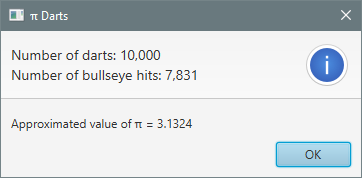
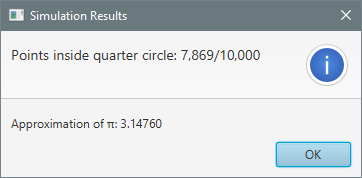
Initial commit for 6.5

diff --git a/docs/chapter6/practice-problems.md b/docs/chapter6/practice-problems.md
@@ -653,119 +653,202 @@ arrays.
 
 ---
 
-**g. Pi Darts.** Draws a visual representation of the dart game simulated in Listing 6.3.3a for 
-approximating π. 
+**g. Graphical π Approximator.** Displays a graphical representation of the Monte Carlo simulation 
+used to approximate π in Section 6.3.3. Random points are generated within a square scene. 
+Different colors are used to distinguish points within the circumscribed quarter circle from 
+those outside it.
 
 ??? "Output 6.5.2g-1"
-![Output 6.5.2g-1 – Pi Darts](images/output6.5.2g-1.png)
+![Output 6.5.2g-1 – Random Points](images/output6.5.2g-1.png)
 
-Draw each random dart as a black dot and display the results in an alert box using the following 
-code:
-
-```java
-Alert alert = new Alert(AlertType.INFORMATION); 
-alert.setTitle(titleString); 
-alert.setHeaderText(headerString); 
-alert.setContentText(contentString); 
-alert.showAndWait(); 
-System.exit(0);
-```
+The fraction of points inside the quarter circle approximates π/4, so multiplying that fraction by
+four approximates π itself. Display this information in an alert dialog:
 
 ??? "Output 6.5.2g-2"
-![Output 6.5.2g-2 – Pi Darts](images/output6.5.2g-2.png)
+![Output 6.5.2g-2 – Alert Dialog](images/output6.5.2g-2.png)
+
+The following helper method can be used to display the results in an alert dialog:
+
+```java
+/**
+ * Creates and returns an alert dialog with the simulation results.
+ */
+private static Alert getAlert(int pointsInQuarterCircle, int totalPoints) {
+    // Consult the API documentation for the Alert class.
+}
+```
+Call the method from `start` as follows:
+
+```java
+// display simulation results
+Alert alert = getAlert(pointsInQuarterCircle, totalPoints);
+alert.showAndWait();
+```
 
 ---
 
-**h. Down the Drain.** Uses PathTransition to move a dot along the path defined by a spiral. 
+**h. Down the Drain.** Animates a dot moving along a spiral path.
 
 ??? "Output 6.5.2h"
 ![Output 6.5.2h – Down the Drain](images/output6.5.2h.png)
 
-The spiral is an instance of `Polyline`. The endpoints of the small line segments that form the 
-polyline are obtained by selecting points on imaginary circles of gradually increasing radii. The 
-details involve concepts from elementary trigonometry, but you can use the following code to 
-build the polyline without having to understand the mathematics.
+Use `PathTransition` for the animation. Represent the spiral as a `Polyline` whose vertices lie on
+imaginary circles of gradually increasing radius. Constructing the polyline involves elementary
+trigonometry, but the following code can be used without understanding the mathematics:
 
 ```java
-// x and y denote the location of the center of the spiral 
-// n is the number of times the spiral wraps around the center 
-// rStep is the change in radius from one endpoint to the next 
-// aStep is the change in angle from endpoint to the next.
-Polyline polyline = new Polyline(); 
-double radius = 0; 
-for (double a = 0; a < 2 * n * Math.PI; a += Math.toRadians(aStep)) {
-    double u = x + radius * Math.cos(a); 
-    double v = y + radius * Math.sin(a); 
-    polyline.getPoints().
-    addAll(u, v); radius += rStep;
+ /**
+ * Creates and returns a polyline representing a spiral.
+ *
+ * @param x x-coordinate of center
+ * @param y y-coordinate of center
+ * @param n number of revolutions
+ * @param rStep increase in radius between successive vertices
+ * @param aStep increase in angle (in degrees) between successive vertices 
+ */
+private static Polyline getSpiral(int x, int y, int n, double rStep, double aStep) {
+    Polyline spiral = new Polyline();
+    double radius = 0;
+    for (double angle = 0; angle < 2 * n * Math.PI; angle += Math.toRadians(aStep)) {
+        double u = x + radius * Math.cos(angle);
+        double v = y + radius * Math.sin(angle);
+        spiral.getPoints().addAll(u, v);
+        radius += rStep;
+    }
+    return spiral;
 }
+
 ```
 
 ## 6.5.3 Monte Carlo Simulations
 
-**a. Roulette.** A roulette wheel has 38 equally sized slots. The wheel is spun and a little ball 
-is set spinning with it, eventually landing in one of the slots. Two of the slots are green, 18 are 
-red, and 18 are black. A common bet is to place $1 on red. In this case, if the ball lands on red 
-then the player gets his dollar back plus another dollar; otherwise, the player gets nothing. Write 
-a Monte Carlo simulation that calculates the expected loss from this wager. Display the result in 
-$X.YZ format.
+
+**a. Roulette.** An American roulette wheel has 38 equally sized slots. Two are green, 18 are red,
+and 18 are black. A common wager is to bet $1 on red. If the ball lands on a red slot, the player
+receives the original dollar back plus another dollar. Otherwise, the player loses the dollar.
+
+Write a Monte Carlo simulation that estimates the expected payout. 
+
+??? "Partial output 6.5.3a"
+    ```text
+    Spin the roulette wheel and bet a dollar on RED.
+    Simulating 100,000,000 trials...
+    Expected payout:
+    ```
+
+The correct result is slightly negative, indicating a small expected loss.
 
 ---
 
-**b. Three of a Kind.** Write a Monte Carlo simulation to estimate the probability of rolling four 
-dice with a result of at least three dice showing the same number. Display the result as a 
-percentage with two digits after the decimal point.
+**b. Three of a Kind.** Estimates the probability of rolling three of a kind with four dice. A 
+positive outcome includes the case when all four dice are the same.
+
+??? "Partial output 6.5.3b"
+    ```text
+    Rolling four dice 10,000,000 times...
+    Probability of rolling three of a kind:
+    ```
+
+The probability is between 9 and 10 percent.
 
 ---
 
-**c. Thor vs. Zeus.** Thor has nine four-sided dice with faces numbered from 1 to 4. Zeus has six 
-six-sided dice with faces numbered from 1 to 6. They roll their dice and add up the numbers 
-obtained. The highest total wins. The game is a draw if the totals are equal. Write a Monte Carlo
-simulation to calculate the probability of victory for Thor. Display the result as a percentage with 
-two digits after the decimal point.
+**c. Thor vs. Zeus.** Thor has nine 4-sided dice with faces numbered from 1 to 4. Zeus has six 
+6-sided dice with faces numbered from 1 to 6. They roll their dice and add up the numbers obtained. 
+The highest total wins. The game is a draw if the totals are equal.
+
+Write a Monte Carlo simulation that estimates the probability of victory for Thor.
+
+??? "Partial output 6.5.3c"
+    ```text
+    Simulating Thor vs. Zeus 100,000,000 times... 
+    Probability of victory for Thor:
+    ```
+
+The true probability is between 55 and 60 percent. 
 
 ---
 
-**d. Seven and Eleven.** Write a Monte Carlo simulation to calculate the expected number of rolls of 
-a pair of dice needed until sums of both 7 and 11 have been obtained. Display the result with two
-digits after the decimal point.
+**d. Seven and Eleven.** Estimates the expected number of rolls of a pair of dice until sums of 
+7 and 11 have each occurred at least once. 
+
+??? "Partial output 6.5.3d"
+    ```text
+    Rolling until sums of 7 and 11 have each occurred at least once.
+    Repeating 10,000,000 times... 
+    Expected number of rolls: 
+    ```
+
+The true expected number of rolls is between 15 and 20.
 
 ---
 
-**e. Capybara Payout.** Write a Monte Carlo simulation to calculate the expected payout for the 
-game of Capybara. The player repeatedly rolls a pair of dice and wins a dol-lar amount equal to the 
-sum. This continues until the player rolls 7, 8, or 9, at which point the game ends. Note that if 
-the first roll is 7, 8, or 9, the player wins nothing. Display the result in $X.YZ format.
+**e. Capybara Payout.** Estimates the expected payout for the game of Capybara. The player rolls a 
+pair of dice and wins the sum in dollars. Play continues until a sum of 7, 8, or 9 is rolled, ending 
+the game without a payout for that roll.
+
+??? "Partial output 6.5.3e"
+    ```text
+    Playing Capybara 100,000,000 times... 
+    Expected payout: $
+    ```
+
+The true expected payout is between $8 and $9.
 
 ---
 
-**f. Okapi Payout.** Write a Monte Carlo simulation to calculate the expected payout for the game 
-of Okapi. The player rolls three dice and receives a payout determined by the following rule. 
+**f. Okapi Payout.** Estimates the expected payout for the game of Okapi. The player rolls three 
+dice and receives a payout determined by the following rules.
 
-• If the 3 numbers are the same, the player wins the sum of those 3 numbers. 
+- If the three numbers are the same, the player wins the sum of those three numbers.
+- If exactly two of the numbers are the same, the player wins the sum of those two numbers.
+- For three different numbers, the player wins nothing.
 
-• If only 2 of the numbers are the same, the player wins the sum of those 2 numbers. 
+??? "Partial output 6.5.3f"
+    ```text
+    Playing Okapi 100,000,000 times... 
+    Expected payout: $
+    ```
 
-• For 3 different numbers, the player wins nothing. 
-
-Display the result in $X.YZ format.
-
----
-
-**g. Quetzal.** Write a Monte Carlo simulation to calculate the expected payout for the game of 
-Quetzal. The payout is defined to be the number of even-numbered rolls times the sum of 
-even-numbered rolls, plus the number of odd-numbered rolls times the sum of the odd-numbered rolls. 
-Display the result in $X.YZ format.
+The true expected payout is between $3 and $4.
 
 ---
 
-**h. Colliding Kings.** Two kings are on a standard chessboard. The black king is at A1 (bottom 
-left) and the white king is at H8 (top right). The black king can move one square up or to the right 
-as long as he remains on the board. If either move is possible, the king chooses at random. 
-Similarly, the white king can move one square down or to the left, and chooses at random when both 
-moves are possible. The two kings move simultaneously once every second. What is the probability 
-that they will collide? Write a Monte Carlo simulation to find out. Display the result as a 
-percentage with two digits after the decimal point.
+**g. Quetzal.** Estimates the expected payout for the game of Quetzal. The player rolls three dice.
+The payout is equal to the number of even rolls multiplied by the sum of the even rolls, plus the
+number of odd rolls multiplied by the sum of the odd rolls.
+
+For example, a roll of 2-5-4 consists of two even rolls (2 and 4) and one odd roll (5), so the 
+payout is 2 × (2 + 4) + 1 × 5 = $17. A roll of 3-1-5 consists of no even rolls and three odd rolls,
+so the payout is 0 + 3 × (3 + 1 + 5) = $27.
+
+??? "Partial output 6.5.3g"
+    ```text
+    Playing Quetzal 100,000,000 times...
+    Expected payout: $
+    ```
+
+The true expected payout is between $20 and $22.
+
+---
+
+**h. Colliding Kings.** Two kings are placed on opposite corners of a standard chessboard. The 
+black king starts at A1 (bottom left) and the white king starts at H8 (top right). Each second, the 
+kings move simultaneously. The black king moves one square up or one square right (if both moves are 
+possible, it chooses randomly). The white king moves one square down or one square left (also 
+choosing randomly when both moves are possible).
+
+The kings are said to *collide* if they land on the same square at the same time.
+
+Write a Monte Carlo simulation to estimate the probability of a collision.
+
+??? "Output 6.5.3g"
+    ```text
+    Simulating the moving kings 10,000,000 times...
+    Probability of collision:
+    ```
+
+The probability is between 20 and 21 percent.
 
 ---
 
